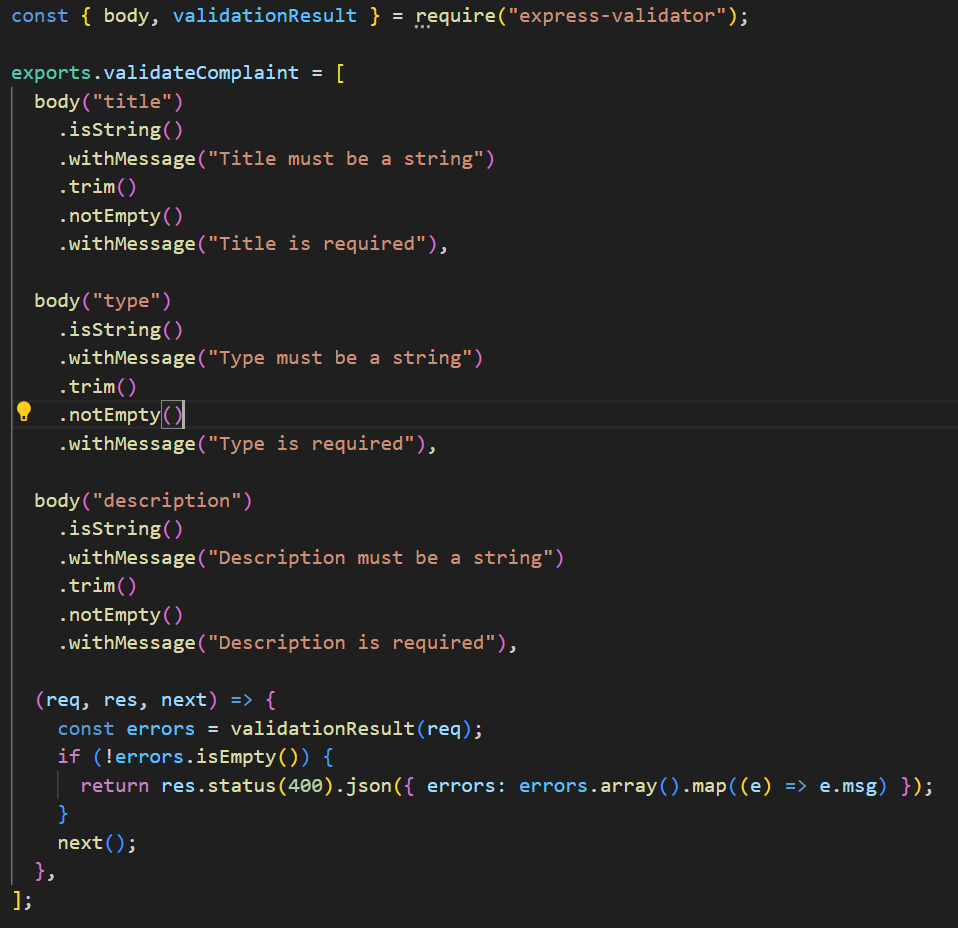
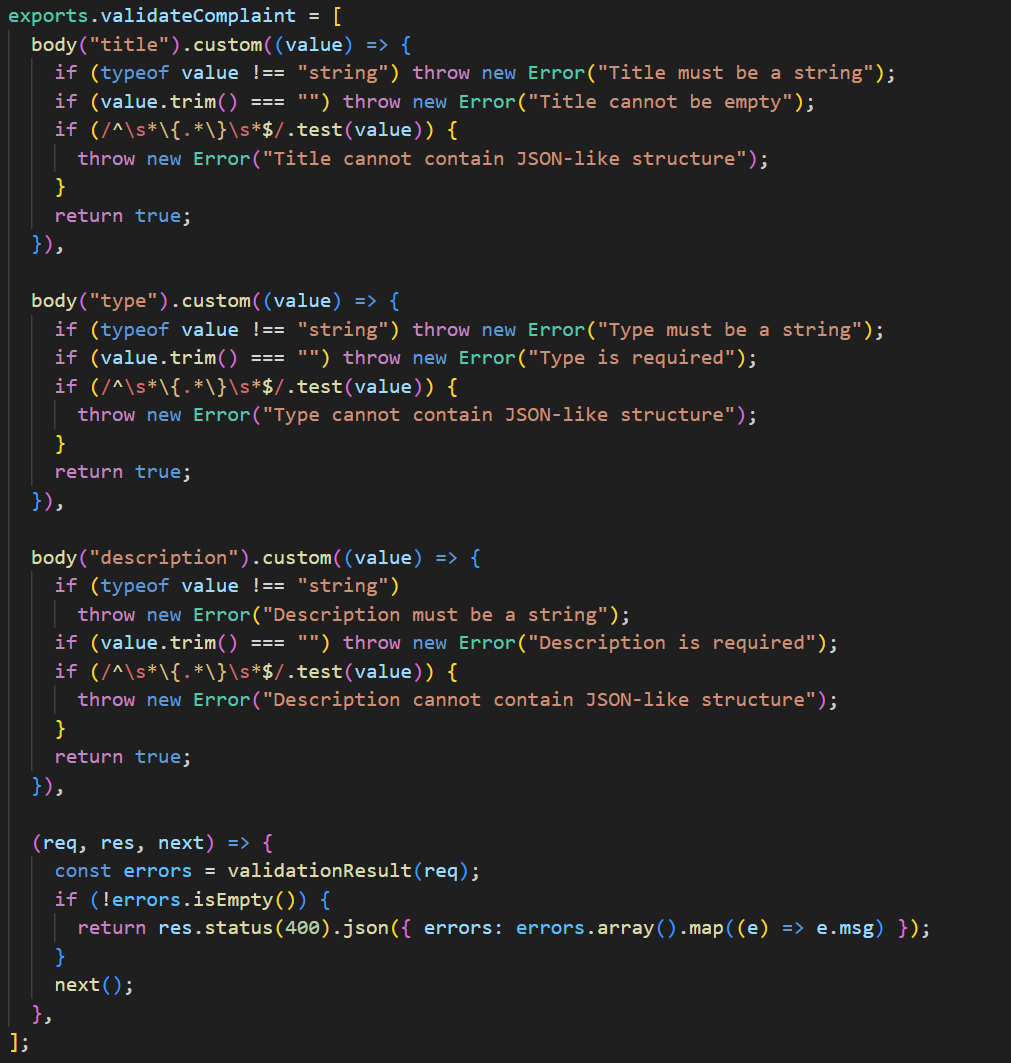
security: nosql injection prevention implemented

Changed region(s): [[0.0, 0.0, 0.9687, 1.0], [0.4238, 0.0, 0.7871, 0.0312], [0.7871, 0.2812, 0.8476, 0.3438]]

diff --git a/server/controllers/complaintController.js b/server/controllers/complaintController.js
@@ -1,10 +1,21 @@
 const fs = require("fs");
 const path = require("path");
+const sanitizeHtml = require("sanitize-html");
 const Complaint = require("../models/Complaint");
 
 exports.createComplaint = async (req, res) => {
   try {
-    const { title, type, description } = req.body;
+    let title = String(req.body.title || "").trim();
+    let type = String(req.body.type || "").trim();
+    let description = String(req.body.description || "").trim();
+
+    title = sanitizeHtml(title, { allowedTags: [], allowedAttributes: {} });
+    type = sanitizeHtml(type, { allowedTags: [], allowedAttributes: {} });
+    description = sanitizeHtml(description, {
+      allowedTags: [],
+      allowedAttributes: {},
+    });
+
     const image = req.file ? req.file.filename : null;
 
     const complaint = await Complaint.create({
@@ -34,12 +45,27 @@ exports.updateComplaint = async (req, res) => {
         .status(400)
         .json({ message: "Only pending complaints can be edited" });
 
-    // Update fields
-    complaint.title = req.body.title || complaint.title;
-    complaint.type = req.body.type || complaint.type;
-    complaint.description = req.body.description || complaint.description;
+    if (req.body.title) {
+      complaint.title = sanitizeHtml(String(req.body.title).trim(), {
+        allowedTags: [],
+        allowedAttributes: {},
+      });
+    }
 
-    // If a new image is uploaded, replace the old one
+    if (req.body.type) {
+      complaint.type = sanitizeHtml(String(req.body.type).trim(), {
+        allowedTags: [],
+        allowedAttributes: {},
+      });
+    }
+
+    if (req.body.description) {
+      complaint.description = sanitizeHtml(
+        String(req.body.description).trim(),
+        { allowedTags: [], allowedAttributes: {} }
+      );
+    }
+
     if (req.file) {
       if (complaint.image) {
         const oldPath = path.join(__dirname, "..", "uploads", complaint.image);
@@ -48,7 +74,6 @@ exports.updateComplaint = async (req, res) => {
       complaint.image = req.file.filename;
     }
 
-    // If removeImage is explicitly sent AND no new file is uploaded
     if (req.body.removeImage === "true" && !req.file && complaint.image) {
       const oldPath = path.join(__dirname, "..", "uploads", complaint.image);
       if (fs.existsSync(oldPath)) fs.unlinkSync(oldPath);

diff --git a/server/middleware/validateComplaint.js b/server/middleware/validateComplaint.js
@@ -1,26 +1,33 @@
 const { body, validationResult } = require("express-validator");
 
 exports.validateComplaint = [
-  body("title")
-    .isString()
-    .withMessage("Title must be a string")
-    .trim()
-    .notEmpty()
-    .withMessage("Title is required"),
+  body("title").custom((value) => {
+    if (typeof value !== "string") throw new Error("Title must be a string");
+    if (value.trim() === "") throw new Error("Title cannot be empty");
+    if (/^\s*\{.*\}\s*$/.test(value)) {
+      throw new Error("Title cannot contain JSON-like structure");
+    }
+    return true;
+  }),
 
-  body("type")
-    .isString()
-    .withMessage("Type must be a string")
-    .trim()
-    .notEmpty()
-    .withMessage("Type is required"),
+  body("type").custom((value) => {
+    if (typeof value !== "string") throw new Error("Type must be a string");
+    if (value.trim() === "") throw new Error("Type is required");
+    if (/^\s*\{.*\}\s*$/.test(value)) {
+      throw new Error("Type cannot contain JSON-like structure");
+    }
+    return true;
+  }),
 
-  body("description")
-    .isString()
-    .withMessage("Description must be a string")
-    .trim()
-    .notEmpty()
-    .withMessage("Description is required"),
+  body("description").custom((value) => {
+    if (typeof value !== "string")
+      throw new Error("Description must be a string");
+    if (value.trim() === "") throw new Error("Description is required");
+    if (/^\s*\{.*\}\s*$/.test(value)) {
+      throw new Error("Description cannot contain JSON-like structure");
+    }
+    return true;
+  }),
 
   (req, res, next) => {
     const errors = validationResult(req);
